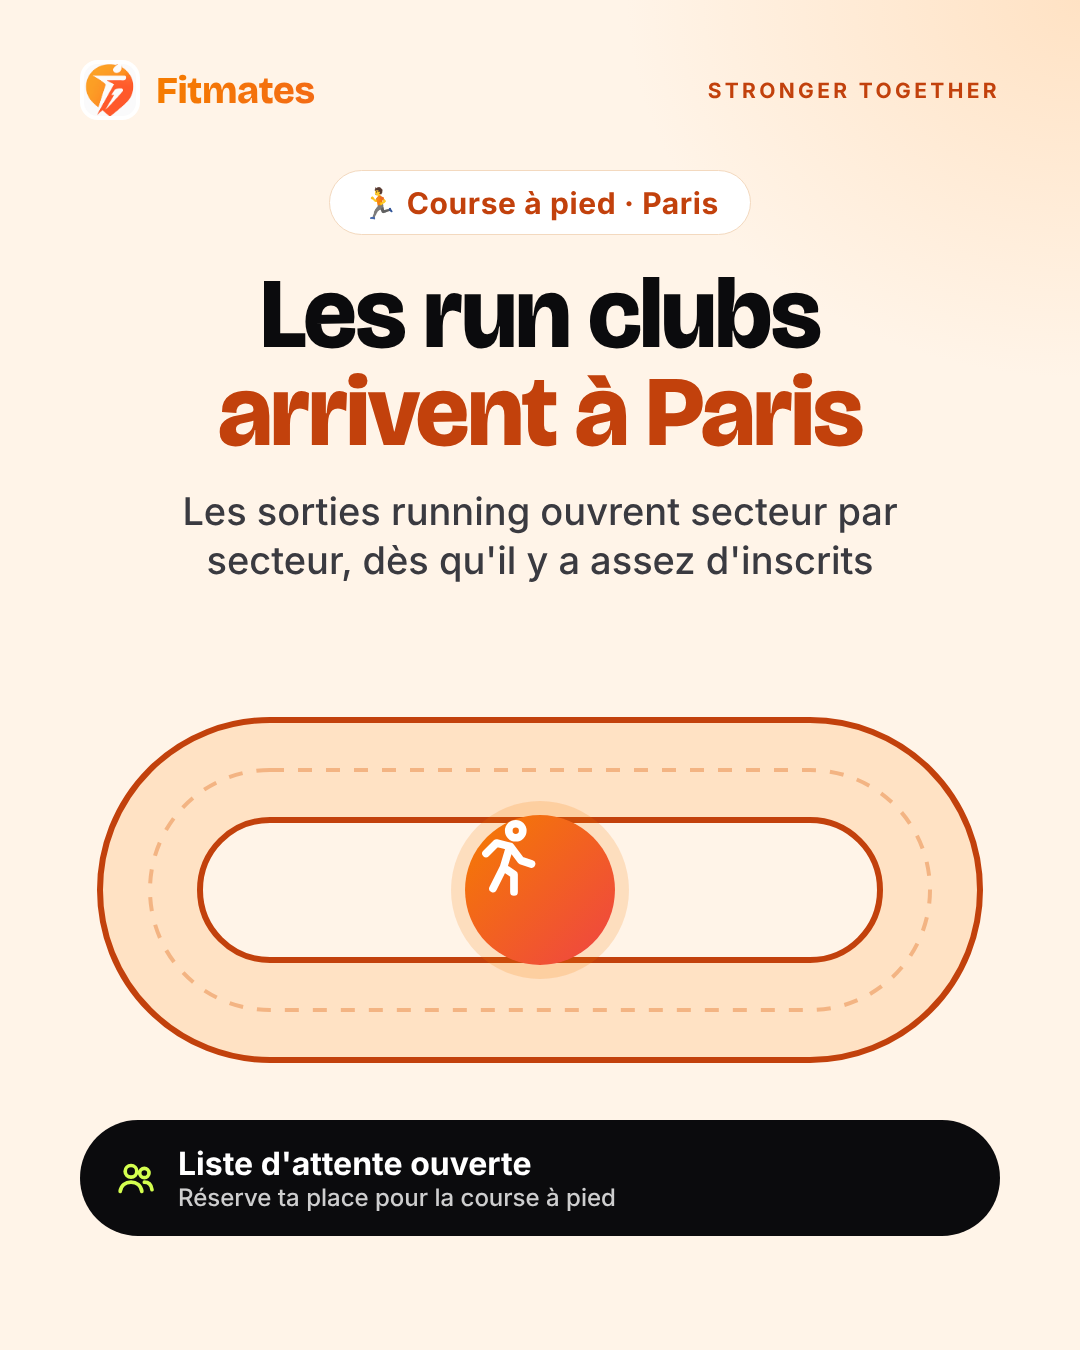
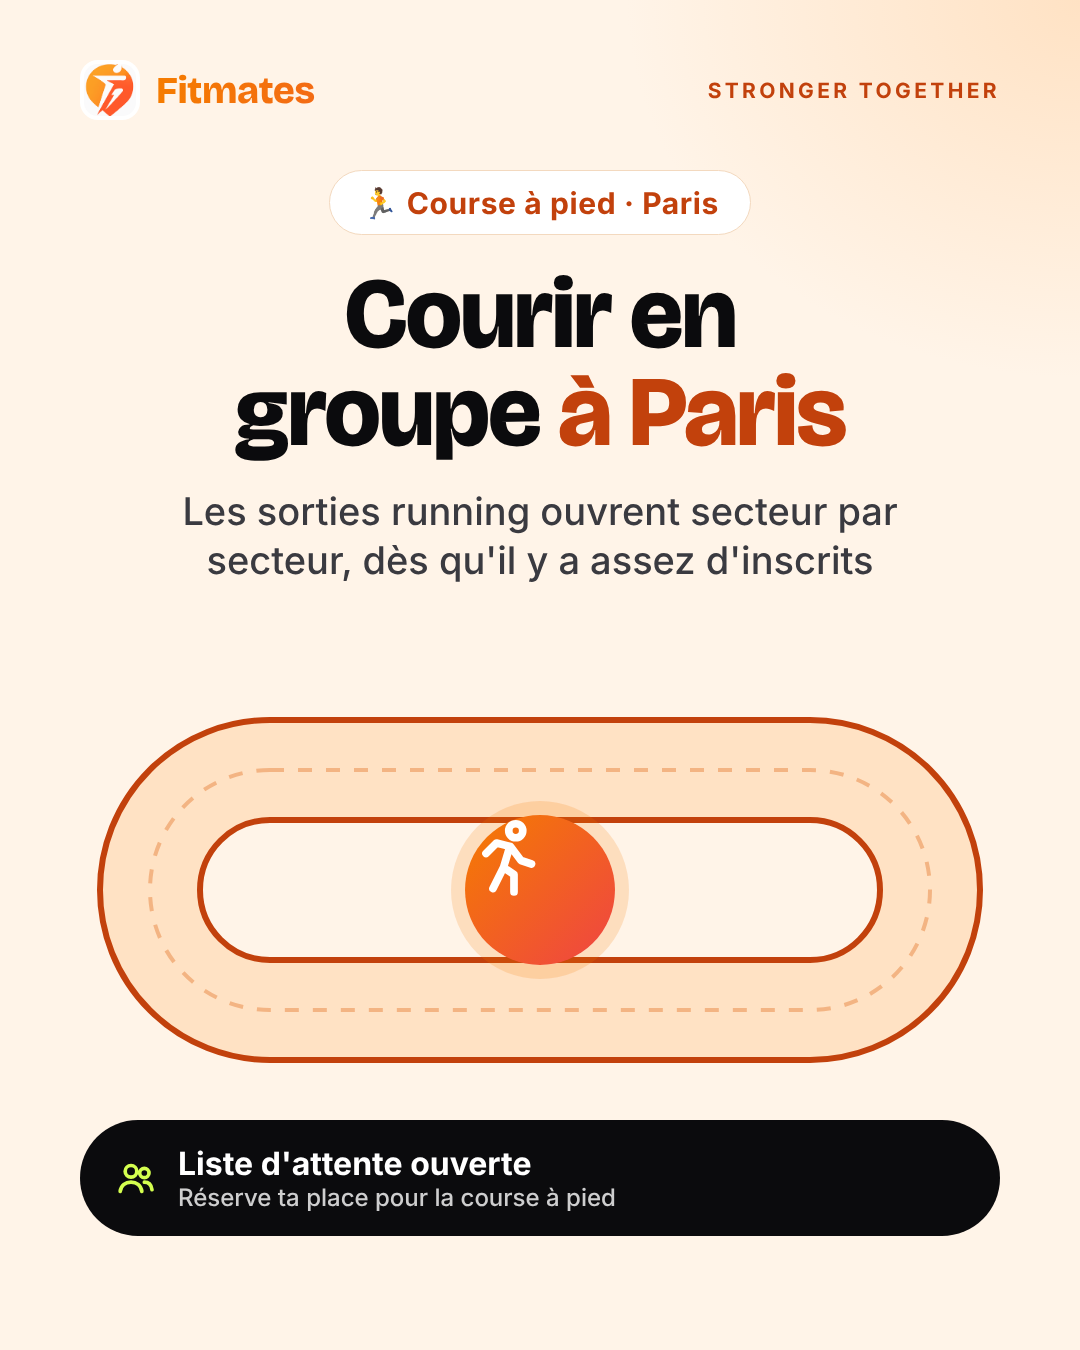
Lot de novembre : sans « la plupart des sorties sont gratuites », titre course à pied sans annonce de lancement
Claude-Session: https://claude.ai/code/session_01XNHWdd3Ezaz2t3MR6axpZZ

Changed region(s): [[0.1833, 0.1867, 0.7944, 0.3422]]

diff --git a/canaux/social/visuels/sources/nov-08-run-clubs.html b/canaux/social/visuels/sources/nov-08-run-clubs.html
@@ -14,7 +14,7 @@
 <body><div class="canvas post cream">
   <div class="head">
     <div class="kicker">🏃 Course à pied · Paris</div>
-    <h1>Les run clubs <em>arrivent à Paris</em></h1>
+    <h1>Courir en groupe <em>à Paris</em></h1>
     <p class="sub">Les sorties running ouvrent secteur par secteur, dès qu'il y a assez d'inscrits</p>
   </div>
   <div class="zone" style="top:700px">
